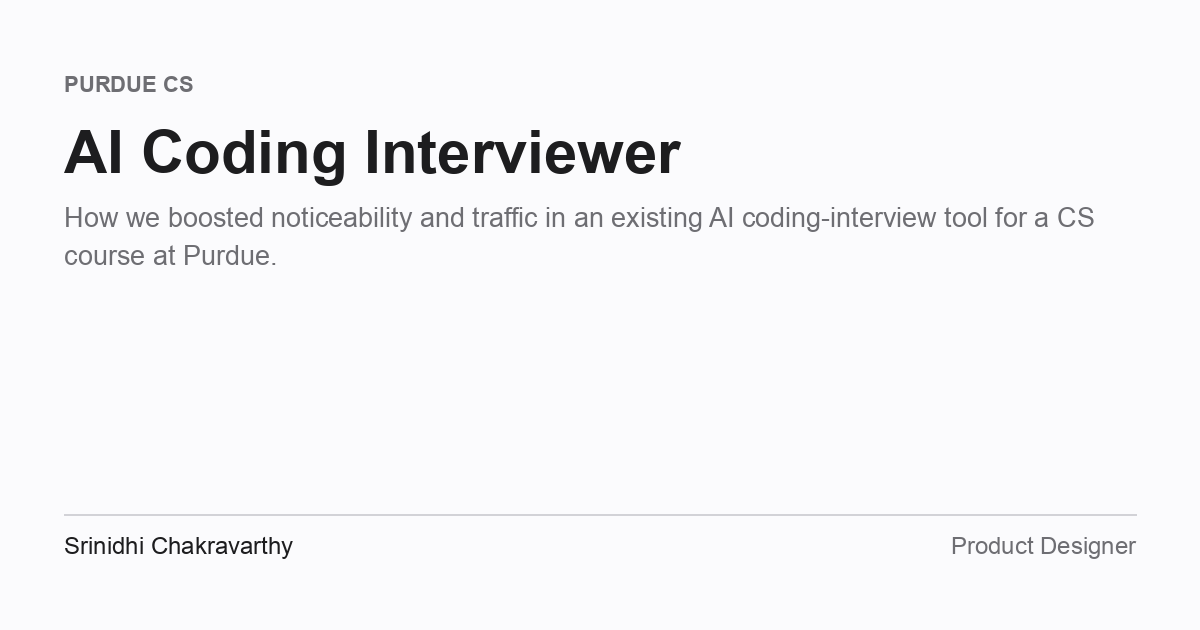
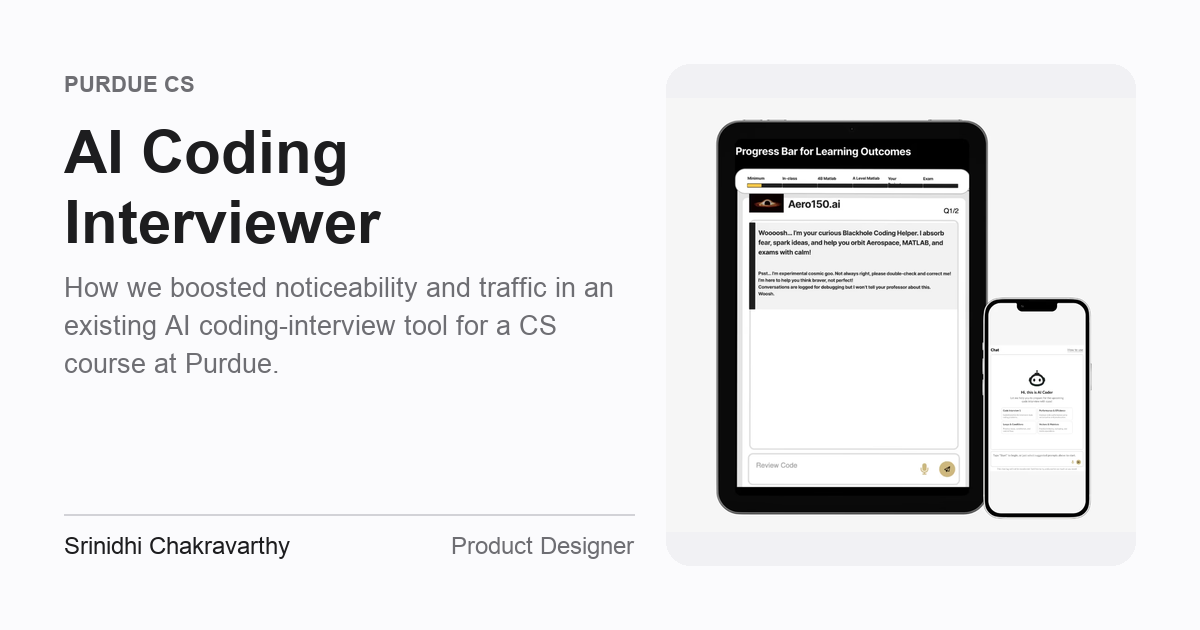
Use each page's real screenshot in its preview card
The preview cards were pulling artwork from public/hero/*.png, which is
generated placeholder art rather than the work itself. Anyone opening a shared
link saw an illustration on the card and then the actual project screenshot on
the page.

The root cause was a silent fallback. The real hero images for Microsoft,
AI Coding and StraboSpot are AVIF, which this Pillow build cannot decode, so
the generator caught the error and emitted a text-only card; the placeholder
art was chosen to fill the gap. Decode via ffmpeg (or sips) instead, and make
an undecodable source a reported failure with a non-zero exit rather than a
quiet downgrade.

Each card's artwork is now the image that route actually renders, confirmed by
inspecting the live DOM for each of the eleven routes:

  microsoft/work/home  work-microsoft.avif      ai-coding   work-ai-coding.avif
  strabospot           work-strabospot.avif     malli       Experience Details…
  bee-feeder           flowerfinal1.png         insomnia    heart1.png
  play                 p1.webp                  defenseark  work-DefenseArk.png

Also switch the image panel from cover to contain. Cover cropped a 1556x1012
dashboard into a 470x502 portrait panel, cutting the sides off the Azure
screenshot and the StraboSpot map - the detail the card exists to show. The
image is now letterboxed whole onto the surface tone. Descriptions get a fourth
line and an ellipsis, since Microsoft's was being cut mid-sentence.
[…]

diff --git a/scripts/gen-og-images.py b/scripts/gen-og-images.py
@@ -10,13 +10,22 @@ Output lands in public/og/ and is COMMITTED to the repo. It deliberately does
 not run in CI: it depends on Pillow and on macOS system fonts, neither of which
 is available on the ubuntu-latest GitHub Actions runner. Keeping generation
 local means the deploy build stays pure Node and cannot break on a missing font.
+Decoding AVIF additionally shells out to ffmpeg (or sips on macOS).
+
+Every card's artwork is the image that route actually renders on the page,
+confirmed against the live site - not stock or generated stand-in art.
 """
 
 import json
 import os
+import shutil
+import subprocess
 import sys
+import tempfile
 
 from PIL import Image, ImageDraw, ImageFont
+
+failures = []
 
 ROOT = os.path.dirname(os.path.dirname(os.path.abspath(__file__)))
 OUT_DIR = os.path.join(ROOT, "public", "og")
@@ -31,10 +40,44 @@ BG = (251, 251, 253)
 INK = (29, 29, 31)
 MUTED = (110, 110, 115)
 BORDER = (210, 210, 215)
+SURFACE = (241, 241, 244)
 
 FONT_DIR = "/System/Library/Fonts/Supplemental"
 F_BOLD = os.path.join(FONT_DIR, "Arial Bold.ttf")
 F_REG = os.path.join(FONT_DIR, "Arial.ttf")
+
+
+def load_image(path):
+    """Open `path`, falling back to an external decoder for formats Pillow lacks.
+
+    The project's hero art is AVIF, which this Pillow build cannot read. Earlier
+    revisions silently fell back to a text-only card for those routes, so three
+    case studies shipped with placeholder art instead of the screenshot the page
+    actually shows. Decode through ffmpeg (or sips) instead of skipping.
+    """
+    try:
+        im = Image.open(path)
+        im.load()
+        return im
+    except Exception:
+        pass
+
+    tmp = os.path.join(tempfile.mkdtemp(), "decoded.png")
+    for cmd in (
+        ["ffmpeg", "-y", "-loglevel", "error", "-i", path, "-frames:v", "1", tmp],
+        ["sips", "-s", "format", "png", path, "--out", tmp],
+    ):
+        if shutil.which(cmd[0]) is None:
+            continue
+        try:
+            subprocess.run(cmd, check=True, capture_output=True)
+            im = Image.open(tmp)
+            im.load()
+            return im
+        except Exception:
+            continue
+
+    raise OSError(f"no decoder could read {path}")
 
 
 def font(path, size):
@@ -74,6 +117,23 @@ def cover(im, box_w, box_h):
     return im.crop((left, top, left + box_w, top + box_h))
 
 
+def contain(im, box_w, box_h):
+    """Fit all of `im` inside box_w x box_h, matted on the surface tone.
+
+    These sources are product screenshots and renders whose aspect ratios vary
+    from 1200x681 landscape to 1024x1024 square. Cropping them to fill a
+    portrait panel cut the sides off the Azure dashboard and the StraboSpot map,
+    which is exactly the detail the card is meant to show, so letterbox instead.
+    """
+    im = im.convert("RGB")
+    scale = min(box_w / im.width, box_h / im.height)
+    new_w, new_h = max(1, int(im.width * scale)), max(1, int(im.height * scale))
+    im = im.resize((new_w, new_h), Image.LANCZOS)
+    panel = Image.new("RGB", (box_w, box_h), SURFACE)
+    panel.paste(im, ((box_w - new_w) // 2, (box_h - new_h) // 2))
+    return panel
+
+
 def rounded_mask(size, radius):
     mask = Image.new("L", size, 0)
     ImageDraw.Draw(mask).rounded_rectangle([0, 0, size[0] - 1, size[1] - 1], radius, fill=255)
@@ -91,11 +151,14 @@ def build_card(route, site):
         if os.path.exists(src_abs):
             try:
                 panel_w, panel_h = IMG_W, H - PAD * 2
-                art = cover(Image.open(src_abs), panel_w, panel_h)
+                art = contain(load_image(src_abs), panel_w, panel_h)
                 card.paste(art, (W - PAD - panel_w, PAD), rounded_mask((panel_w, panel_h), 24))
                 has_img = True
             except Exception as e:  # noqa: BLE001 - fall back to a text-only card
                 print(f"  ! could not use {src_rel}: {type(e).__name__}: {e}")
+                failures.append(f"{src_rel}: {e}")
+        else:
+            failures.append(f"{src_rel}: file not found")
 
     text_w = TEXT_W if has_img else W - PAD * 2
 
@@ -123,9 +186,13 @@ def build_card(route, site):
         d.text((PAD, y), ln, font=f_title, fill=INK)
         y += int(size * 1.18)
 
-    # Description — up to 3 lines
+    # Description — up to 4 lines, ellipsised rather than cut mid-sentence
     y += 14
-    for ln in wrap(d, route["description"], f_desc, text_w)[:3]:
+    desc_lines = wrap(d, route["description"], f_desc, text_w)
+    shown = desc_lines[:4]
+    if len(desc_lines) > 4:
+        shown[-1] = shown[-1].rstrip(" ,.;:") + "\u2026"
+    for ln in shown:
         d.text((PAD, y), ln, font=f_desc, fill=MUTED)
         y += 38
 
@@ -152,6 +219,12 @@ def main():
         print(f"  wrote public/og/{name}.png  ({os.path.getsize(out) // 1024} KB)")
 
     print(f"\nGenerated {len(manifest['routes'])} OG cards into public/og/")
+    if failures:
+        print("\nWARNING - these routes fell back to a text-only card:")
+        for f in failures:
+            print(f"  - {f}")
+        return 1
+    return 0
 
 
 if __name__ == "__main__":
